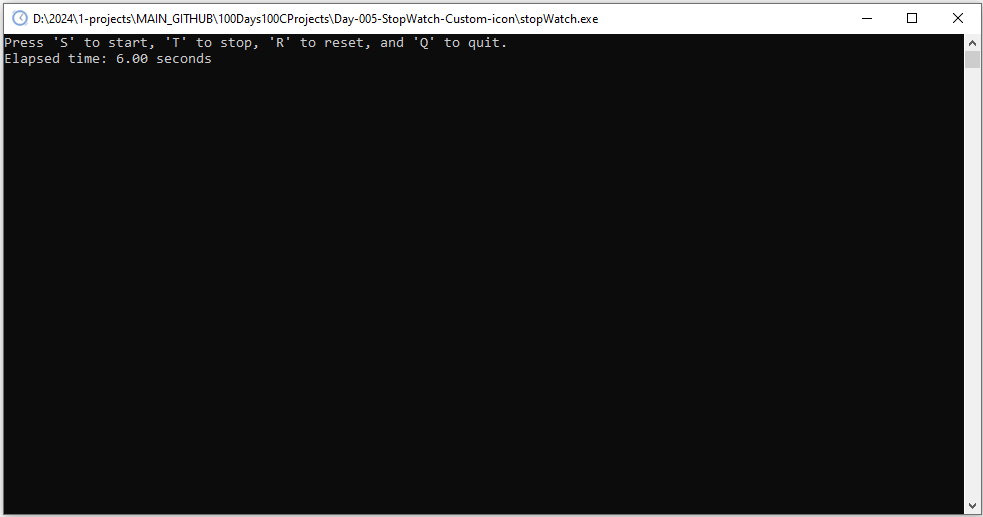
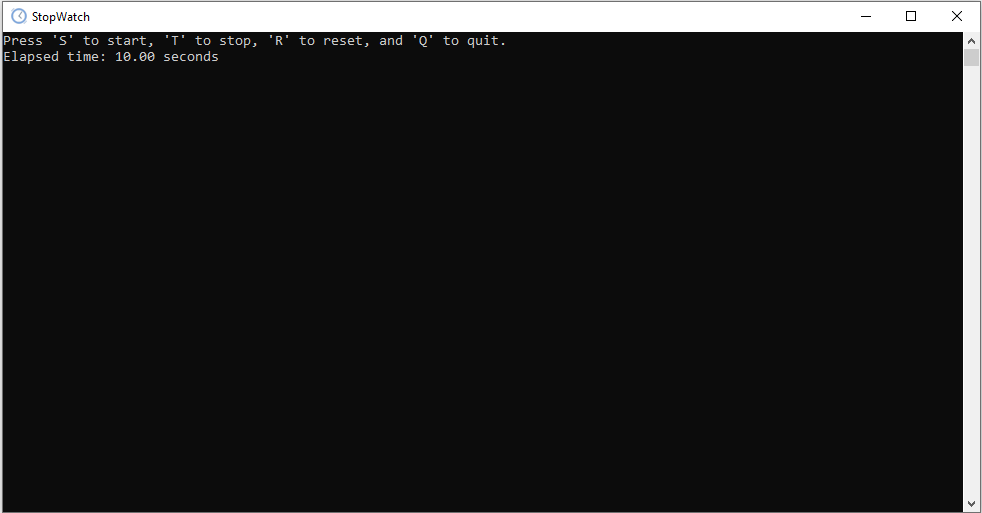
Exe app Custom Title

Changed region(s): [[0.0, 0.0, 1.0, 0.1248], [0.0, 0.9669, 1.0, 1.0]]

diff --git a/Day-005-StopWatch-Custom-icon/Readme.md b/Day-005-StopWatch-Custom-icon/Readme.md
@@ -6,7 +6,7 @@ The Stop-Timer project is an enhancement of the previous Alarm Clock project fro
 
 This project builds upon the concepts learned in the [Alarm Clock project](https://github.com/dohack/100Days100CProjects/tree/main/Day-004-Alarm-Clock), including time handling, user input validation, and basic application development in C.
 
-![Stop-Watch App](stopWatch.png)
+![Stop-Watch App](stopWatch.PNG)
 
 ## Features
 
